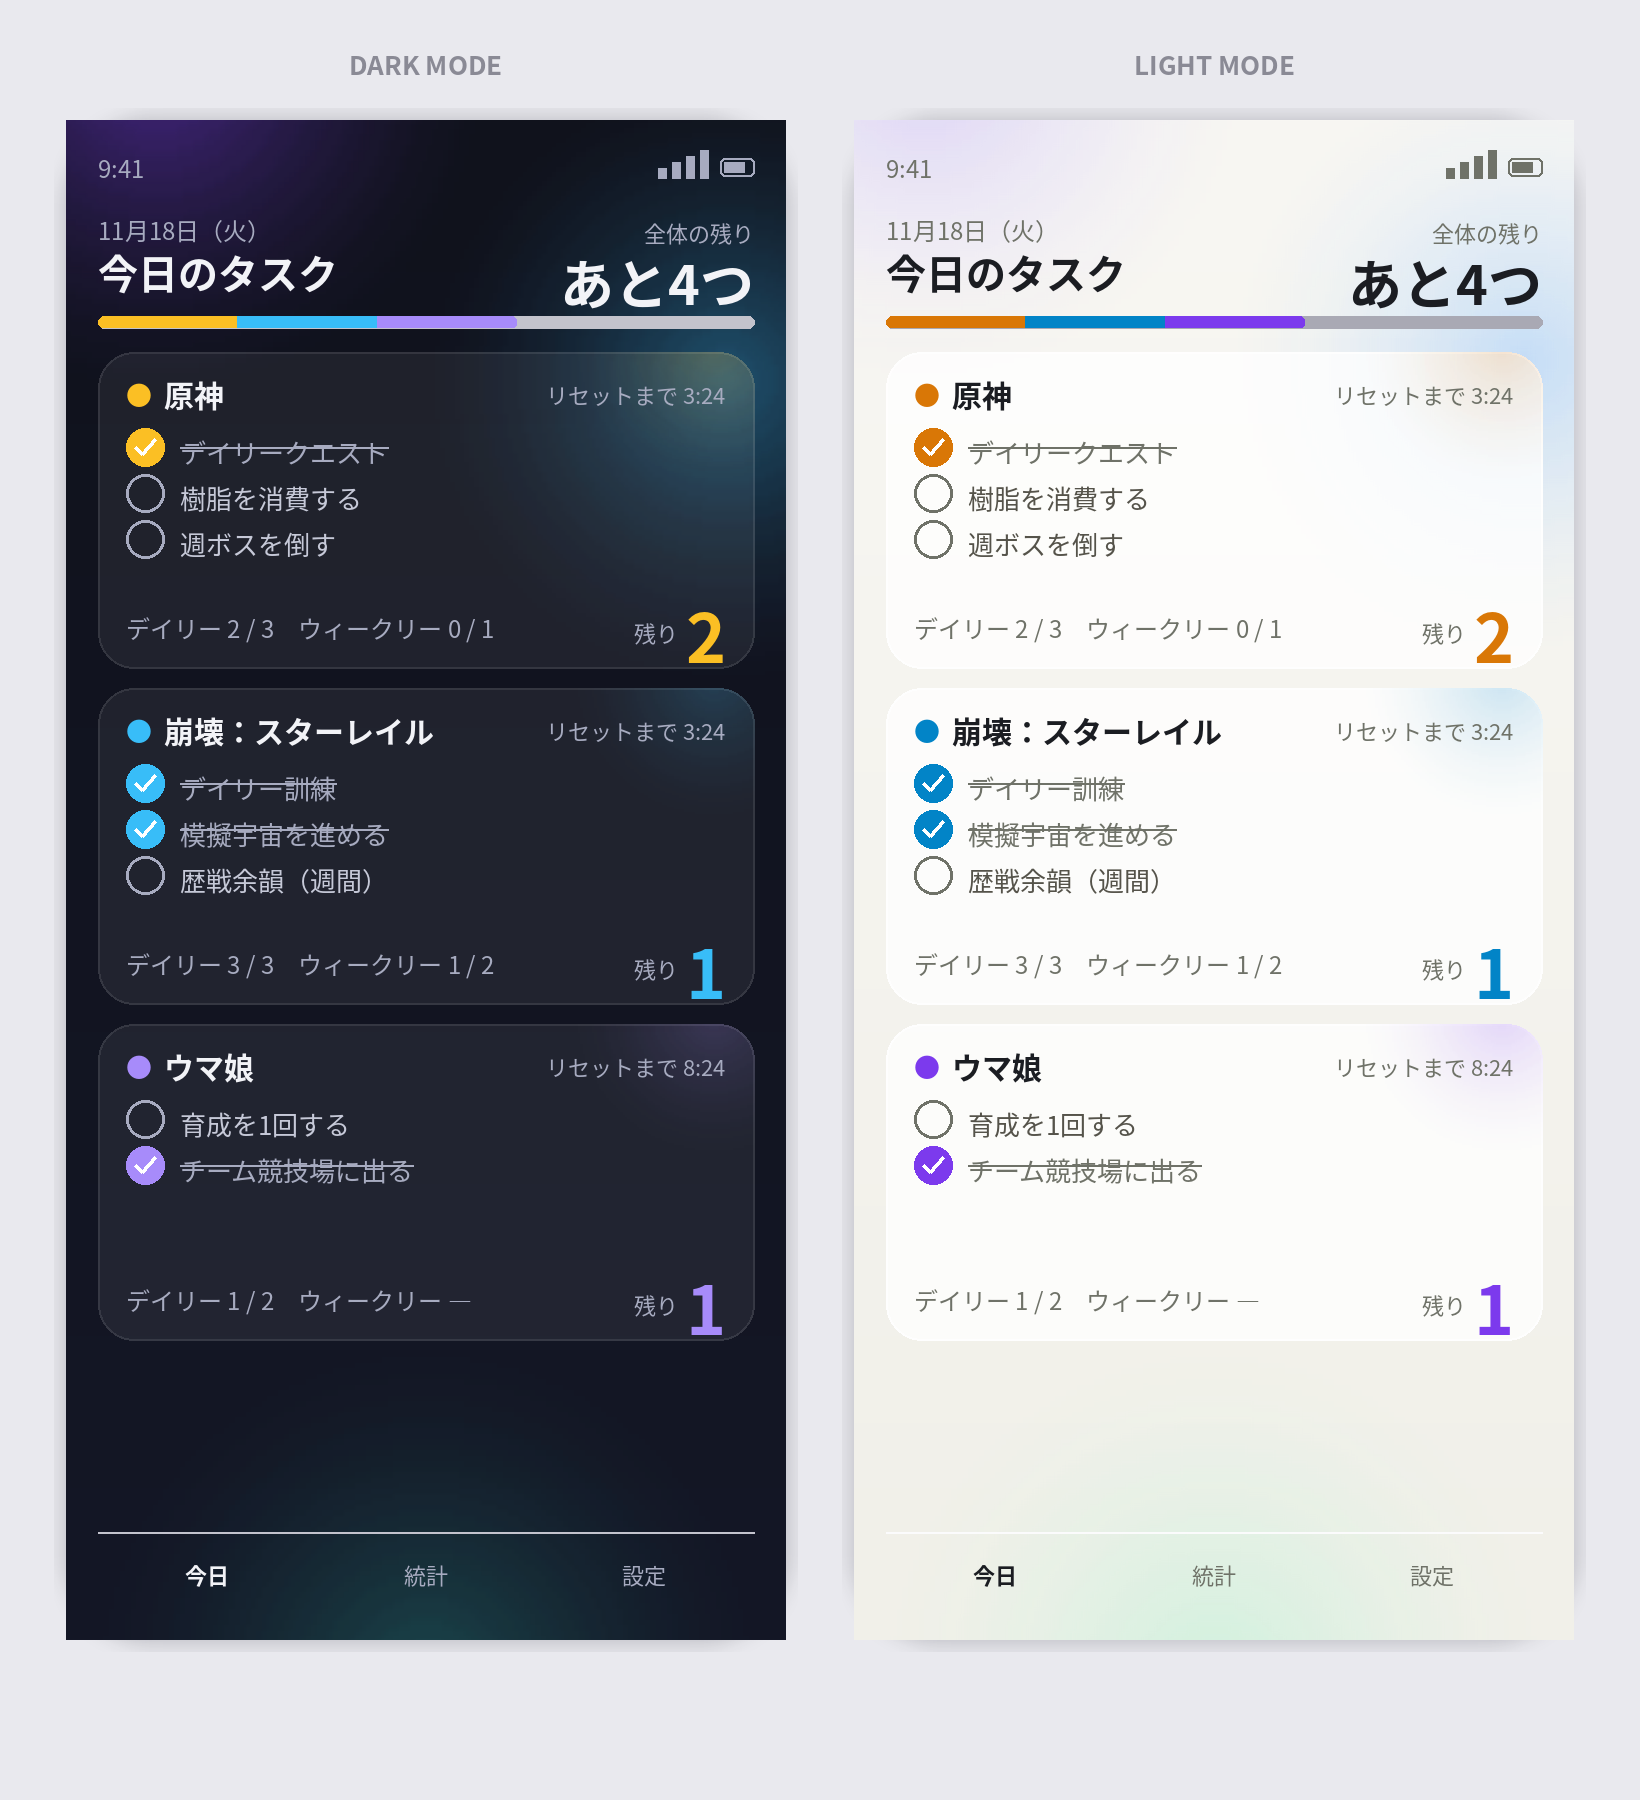
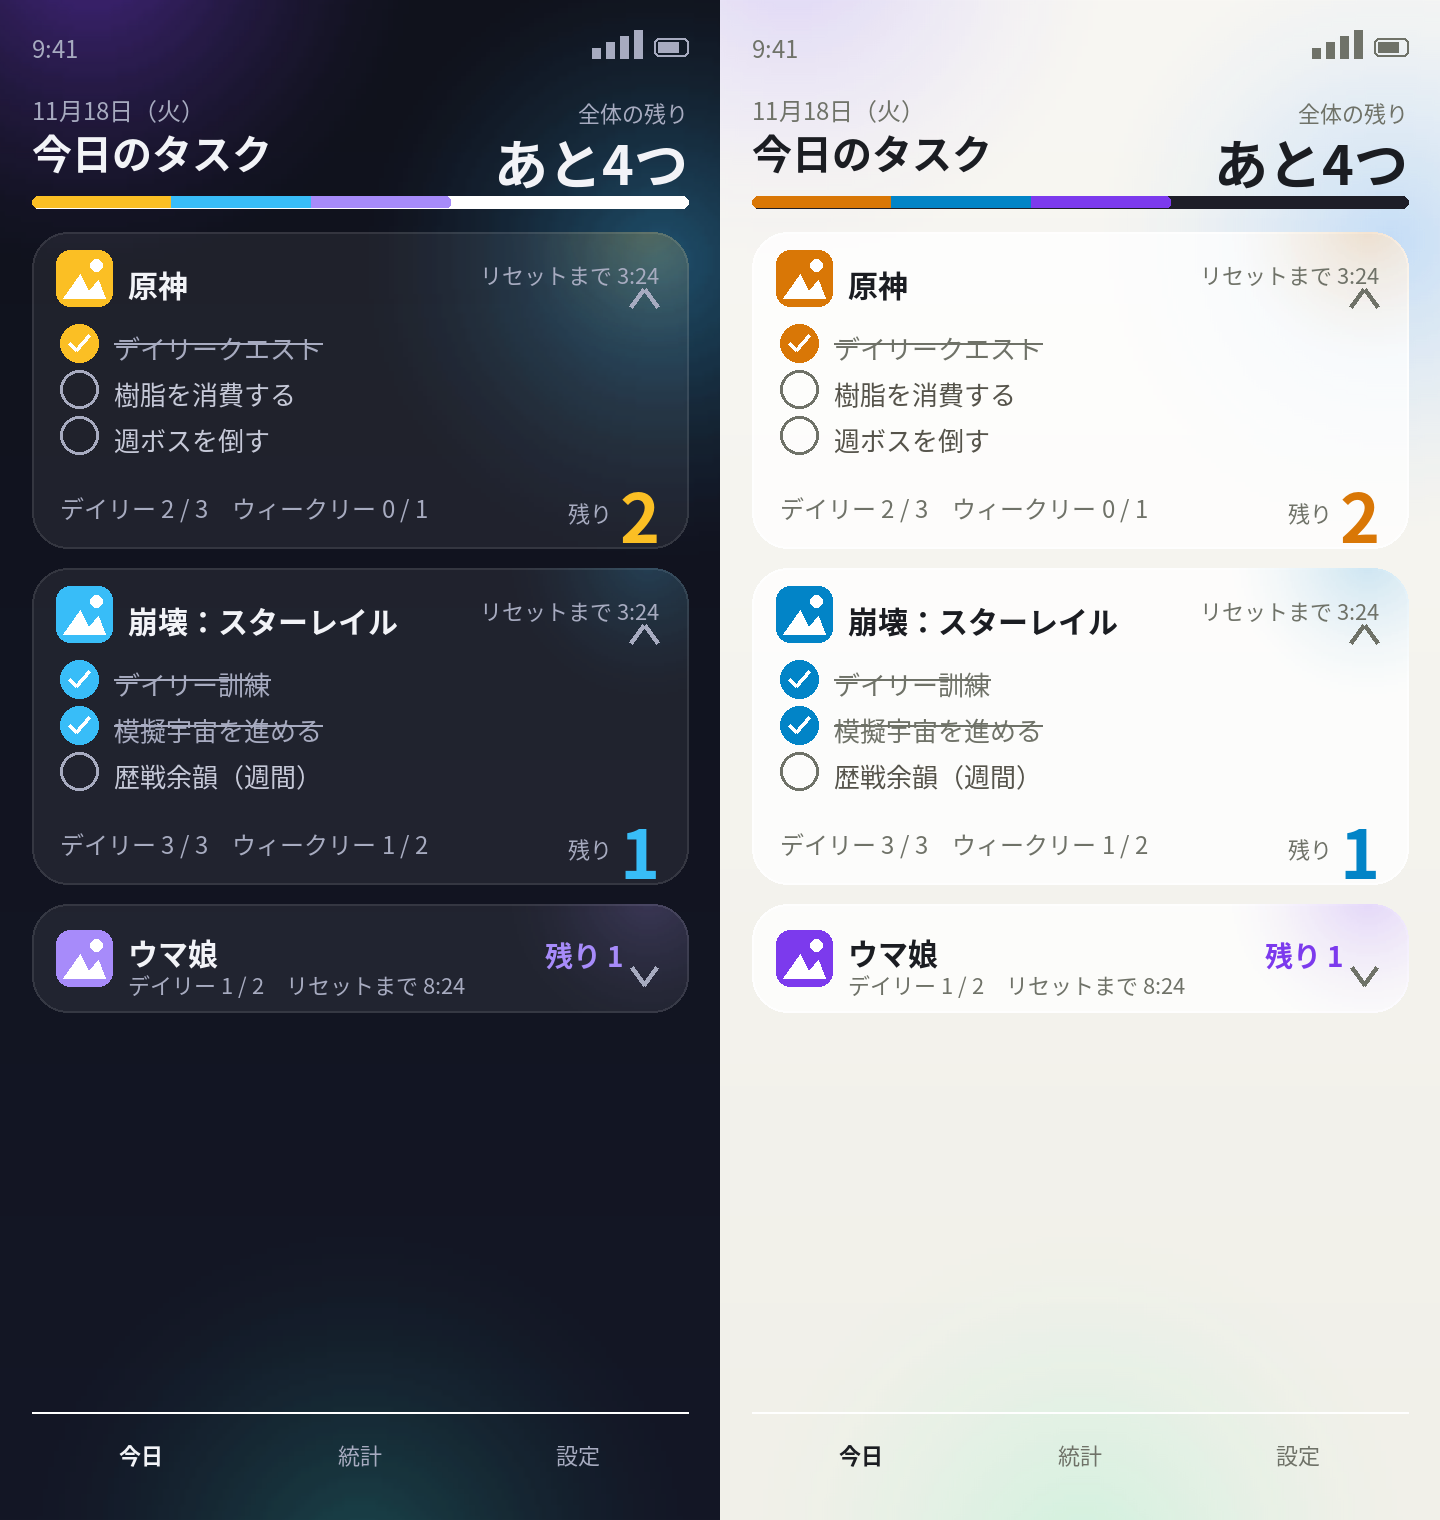
docs: 今日カード拡張Ver.1.8とPhase 3の確定仕様を反映

diff --git a/docs/03_仕様書.md b/docs/03_仕様書.md
@@ -1,4 +1,4 @@
-# デイリータスク管理アプリ 仕様書 Ver.1.7
+# デイリータスク管理アプリ 仕様書 Ver.1.8
 
 作成日：2026-11-16
 この文書は、本アプリの動作の正解を定める。要件の背景は「02_要件定義.md」、完成時の見た目は「04_完成予想図.md」を参照。
@@ -25,10 +25,14 @@
 | resetTime | 時刻（時・分） | デイリーリセット時刻。初期値 5:00 |
 | weeklyResetWeekday | Int（1=日曜〜7=土曜） | ウィークリーリセット曜日。初期値 2（月曜） |
 | weeklyResetTime | 時刻（時・分） | 初期値は resetTime と同じ。以後は連動しない（§3.4） |
-| isActive | Bool | 初期値 true（有効）。休止中は今日の対象・通知・集計から外す |
+| isActive | Bool | 初期値 true（有効）。休止中は今日の対象・通知・現在の集計から外す。過去の集計には影響しない（§8） |
 | sortOrder | Int | 表示順 |
 | note | String | 任意メモ |
 | テーマカラーのパレット番号 | Int | 10色のパレットのインデックス。新規登録時は既存ゲーム数に応じてパレット順の色を提案し、保存前に変更できる。ライト／ダークの配色は完成予想図 §2.1 に従う |
+| imageFileName | String? | ゲームの画像のファイル名。nil の場合は画像なし |
+
+- 画像の実体は端末内のアプリ領域にファイルとして保存し、SwiftData にはファイル名だけを持つ（§3.5 と同じ方針）。外部送信や同期はしない。
+- ゲームを削除する場合は、画像ファイルも併せて削除する。
 
 ### 3.2 TaskItem（タスク）
 | 項目 | 型 | 備考 |
@@ -59,7 +63,7 @@
 - 過去の記録は履歴・統計のために保持する（自動削除しない）。
 - 同一タスク・同一 periodKey の完了記録は1件のみとし、重複を作らない。実装時に保存前チェックとテストで担保する。
 - タスクの名前変更などでは、過去の完了記録を再計算・変更しない。ただし、ゲーム削除・タスク単独削除・タスクの種別変更では、§5.4に従って該当する完了記録を削除する。
-- タスクの変更が過去の達成集計に与える影響のルールは Phase 3 で決定する。完了記録を変更しないことと、達成集計のルールは区別する。
+- タスクの変更が過去の達成集計に与える影響は §8 に従う。再計算そのものは完了記録を変更しない。無効化では記録を保持し、削除・種別変更では §5.4 に従って記録を削除する（2026-11-26 決定）。
 
 ### 3.4 入力条件・初期値の扱い
 - ゲーム名・タスク名は必須とし、前後の空白を除いて判定し、空白のみは不可とする。同名は許可し、文字数上限は設けない。
@@ -78,7 +82,9 @@
 
 - 画像の実体は端末内のアプリ領域にファイルとして保存し、SwiftData にはメタデータとファイル名だけを持つ。外部送信や同期はしない。
 - 記録は「ゲーム」と「その日の期間」の両方に紐づく。実体は1か所に保存し、見せ方を2つ持つ（§5.6）。
-- 未決定事項（Phase 3 の前の仕様ステップで決定する）：保存時の画像の縮小（長辺の上限など）、同じゲーム・同じ日に複数の記録を作れるか。
+- 保存時の縮小は、ゲーム画像（§3.1）は長辺 1024px、画像の記録は長辺 2048px を上限とする。アスペクト比を維持し、切り抜き（トリミング）はしない（2026-11-26 決定）。
+- 同じゲーム・同じ日に複数の画像の記録を作れる（2026-11-26 決定）。
+- ゲームを削除したときは、画像の記録と画像ファイルも、タスク・完了記録と一緒に削除する（§5.4、2026-11-26 決定）。
 
 ## 4. ゲーム日・期間の判定（最重要）
 ### 4.1 ゲーム日の求め方
@@ -89,7 +95,7 @@
 
 - タスクの期間は、タスクごとに、そのタスクの実効リセット設定（§3.2）で求める。境界と夏時間の扱いは従来どおり（§4.4）とする。
 - ゲーム単位の集計などで使う「ゲーム日」は、ゲームの設定（既定値）から求める日次期間を指す。
-- ストリーク・達成の集計（§8）の基準は、この「ゲーム日」とする。個別設定は各タスクの完了期間にだけ影響し、集計の区切りには使わない。集計ルールの最終確定は、Phase 3 で §8 を決めるときに行う（2026-11-26 決定）。
+- ストリーク・達成の集計（§8）の基準は、この「ゲーム日」とする。個別設定は各タスクの完了期間にだけ影響し、集計の区切りには使わない。集計ルールは §8 に確定内容を記載する（2026-11-26 決定）。
 
 ### 4.2 ウィークリー期間の求め方
 - ウィークリーリセット（曜日 W・時刻 R）の境界（§4.4）のうち、現在時刻以前で最も新しい境界を期間の開始とする。期間はその境界から次の境界の直前までとし、periodKey はデイリーと同じく期間開始時点の暦日（地方時、yyyy-MM-dd）とする。デイリーのリセット時刻からは独立して決め、ゲーム日には変換しない（2026-11-16 本人決定）。
@@ -158,6 +164,10 @@ static func period(
 - 日付表示はカレンダー日付と併せて、ゲーム日がずれるゲームには違和感のない表現にする（例：見出しは今日の日付で統一し、各ゲームのリセット時刻を明示）
 - タスク行のタップで完了⇔未完了を切り替え、即座に保存・残数・ストリーク表示へ反映する
 - ゲームカードの「次のリセット」は、そのゲームの有効なタスクの中で最も近い境界（タスクごとの実効リセット設定から計算したもの）を表示する。
+- ゲームカードのヘッダーに、ゲームの画像がある場合はサムネイルを表示する（ゲーム名の横）。テーマカラーのドットは従来どおり併記し、画像が無い場合は従来どおりドットのみとする。
+- ゲームカードは、ヘッダーのタップで手動で折りたためる。畳んだ状態ではタスク行を表示せず、ゲーム名・サムネイル・残り件数・次のリセットのみを表示し、カードの位置は変わらない。
+- 開閉状態は端末内に保存し、アプリの再起動後も保持する。ただし、そのゲームの期間（日次・週次のいずれか）が切り替わったら、自動で開く。
+- 完了したゲームの自動の折りたたみは、従来どおりこれとは別に動く。
 
 ### 5.2 ゲーム詳細
 - そのゲームのタスク一覧（デイリー／ウィークリー）、現在のストリークと最長ストリーク
@@ -175,12 +185,14 @@ static func period(
 ### 5.4 ゲーム管理・タスク管理
 - ゲームの追加・編集・削除、休止切替、並び替え
 - タスクの追加・編集・削除、有効切替、並び替え
-- 削除時は確認を表示する。ゲーム削除では配下のタスクと完了記録も削除する
+- 削除時は確認を表示する。ゲーム削除では配下のタスク・完了記録・画像の記録と、ゲーム画像・記録画像のファイルも削除する（§3.1・§3.5・§5.6）
 - タスク単独削除時は、配下の完了記録も削除する。削除の確認表示に「完了記録も削除される」旨を含める
 - タスクの種別変更（daily⇔weekly）時は、既存の完了記録を削除する。変更の確認表示にその旨を含める
 - タスクの並び順はゲーム内で一括の単一順序とし、daily／weeklyを混在させる。無効タスクも順序に含め、新規タスクは末尾に追加する
 - タスクの追加・編集に、リセット設定の項目を持つ。既定は「ゲームの設定に従う」とし、個別設定を選んだ場合は、そのタスクの種別に応じた入力欄（daily は時刻、weekly は曜日と時刻）を表示する。
 - 個別設定の初期値は、その時点のゲームの設定とする。
+- ゲームの追加・編集に、画像の項目を持つ。写真（PhotosPicker）から1枚を選べる。画像なしの状態にも戻せる。
+- 保存時は長辺 1024px を上限に縮小する。アスペクト比は維持し、切り抜き（トリミング）はしない（2026-11-26 決定）。
 
 ### 5.5 設定
 - 通知オン／オフ、通知リードタイム（分）の設定
@@ -193,7 +205,7 @@ static func period(
   - 各記録には、日付・サムネイル（最大4枚）・メモ・その日のタスク達成状況を表示する。
   - 「画像を記録」ボタンで追加シートを開く。「戻る」でゲーム詳細へ戻る。
 - 追加シート（完成予想図 08）
-  - 紐づけ先のゲームは、表示中のゲームで固定する。対象の日は、その時点のゲーム日とする。
+  - 紐づけ先のゲームは、表示中のゲームで固定する。対象の日は当日（その時点のゲーム日）に固定し、変更は許可しない（2026-11-26 決定）。
   - 写真の選択は PhotosPicker を使い、最大4枚まで。選択済みの枚数を表示する。
   - メモは任意入力とする。
   - 「保存」で記録を作成してギャラリーへ戻る。「キャンセル」では何も残さずに戻る。
@@ -201,7 +213,9 @@ static func period(
   - 統計（§5.3）側の表示。その日の全ゲームの画像の記録を、ゲームごとに表示する。
   - ギャラリーと同じ記録を日付で絞った表示であり、データを2重に持たない。
   - 画像の記録が無いゲームは「画像の記録なし」と表示する。
-- 未決定事項（Phase 3 の前の仕様ステップで決定する）：対象の日の変更を許可するか、記録やサムネイルのタップでの拡大表示、記録ごとの削除の方法、ゲーム削除時の画像の記録と画像ファイルの扱い（案：§5.4 の方針に合わせ、タスク・完了記録と一緒に削除する）。
+- 記録やサムネイルのタップで拡大表示する（2026-11-26 決定）。
+- 記録の削除は、ギャラリーで記録を開いて行う。削除時には確認ダイアログを表示する（2026-11-26 決定）。
+- ゲームを削除したときは、画像の記録と画像ファイルも、タスク・完了記録と一緒に削除する（§3.5・§5.4、2026-11-26 決定）。
 
 ## 6. 通知仕様（UserNotifications・ローカル通知のみ）
 - 対象：有効（isActive）なゲームのうち、そのゲーム日に未完了の有効デイリータスクが残っているもの（ウィークリーは締切当日＝リセット前日のゲーム日に限って対象に含める）
@@ -218,11 +232,11 @@ static func period(
 - データ共有は App Group 経由の SwiftData 共有ストアを使う
 
 ## 8. ストリーク・達成の計算
-- 達成日：そのゲーム日に、有効なデイリータスクが1件以上あり、全て完了していること（タスクが0件の日は達成日に数えない）
+- 達成日の判定は「現在有効なデイリータスクが1件以上あり、全てにその期間の完了記録があること」で都度算出する（タスクが0件の日は達成日に数えない、2026-11-26 決定）。
 - 現在ストリーク：直近のゲーム日から遡って達成日が連続している日数。ただし「今日（現在のゲーム日）」が未達成でも、まだリセット前ならストリークは切れていないものとして、昨日までの連続で表示する
 - 最長ストリーク：過去の最大連続日数
 - 計算は完了記録とタスク有効状態から都度算出する（ストリーク値そのものは保存しない）
-- タスクの変更が過去の達成集計に与える影響のルールは Phase 3 で決定する（§3.3）。今回の完了記録の保持方針だけでは確定しない
+- 再計算そのものは完了記録を変更しない。タスクの無効化では完了記録は残るが、判定の対象からは外れるため、過去の達成判定が変わり得る。タスクの削除と種別の変更では、既存のルール（§5.4 ほか）どおり、配下の完了記録も削除される。ゲームの休止は過去の集計に影響しない（2026-11-26 決定）。
 
 ## 9. エラー・不正状態への基本方針
 - データが空（ゲーム未登録）の場合は、ホームに登録を促す案内を表示する
@@ -250,3 +264,4 @@ static func period(
 | 1.5 | §4.3 に GameDayCalculator の API 契約を追記。文書再現性検証（2026-11-25）の結果を受けたもので、振る舞いの変更はない（2026-11-26） |
 | 1.6 | 画像の記録機能の仕様を追加（§3.5・§5.6新設、§5.2・§5.3に導線と表示を追記）。ゲームとその日の期間への紐づけ、最大4枚、メモ任意、端末内ファイル保存を明記。詳細の一部は Phase 3 前の仕様ステップで決定する未決定事項として記載（2026-11-26） |
 | 1.7 | タスクごとのリセット時刻の個別設定を追加（方式A：ゲームの設定を既定値とし、タスクごとに上書きできる）。§3.2 に個別設定の項目、§4 にタスク単位の期間計算と API 契約、§5.1・§5.2・§5.4 に表示と入力を追記（2026-11-26） |
+| 1.8 | 今日カードの拡張を追加。ゲーム画像（写真から選択、§3.1・§5.1・§5.4）と、ゲームカードの手動の折りたたみ（§5.1）。§3.5・§5.6 の画像の縮小・複数記録・対象日の固定・拡大表示・削除と、§8 の達成判定・過去集計への影響を確定（2026-11-26） |

diff --git a/docs/04_完成予想図.md b/docs/04_完成予想図.md
@@ -1,4 +1,4 @@
-# デイリータスク管理アプリ 完成予想図 Ver.1.2
+# デイリータスク管理アプリ 完成予想図 Ver.1.3
 
 作成日：2026-11-16
 完成時に「こうなっている」姿を定める文書。動作の詳細は「03_仕様書.md」が正。画面イメージは参考ではなく、完成時の表示基準として扱う。
@@ -45,6 +45,10 @@
 ```
 - 残りがあるゲームを上に、全完了のゲームは畳んで下に
 - 各ゲームの見出し：名前、リセットまでの残り時間、残り件数
+- ゲーム画像がある場合は、ゲーム名の横にサムネイルを表示する。テーマカラーのドットは併記し、画像が無い場合はドットのみとする（仕様書 §3.1・§5.1）。
+- ヘッダーのタップでゲームカードを手動で折りたためる。畳んだ状態ではタスク行を隠し、ゲーム名・サムネイル・残り件数・次のリセットのみを表示する。カードの位置は変わらない。
+- 開閉状態は端末内に保存し、再起動後も保持する。そのゲームの期間（日次・週次のいずれか）が切り替わると自動で開く。全完了ゲームの自動の折りたたみは別に動く（仕様書 §5.1）。
+- [今日モック](01-today.png)は、サムネイル付きカードと手動で畳んだカードの例を示す。
 - デイリーとウィークリーは見出しやラベルで区別できるように並べる
 
 ### 2.2 ゲーム詳細
@@ -128,3 +132,4 @@
 | 1.0 | 初版（2026-11-16）。レイアウトはテキストモック。実装が進んだら実スクリーンショットに差し替える |
 | 1.1 | 今日画面のデザイン方針（オーロラ・グラスとゲーム別カラー、ライト／ダーク）を§2.1に反映し、差し替え済みの画面モック6点を冒頭から参照できるようにした（2026-11-25） |
 | 1.2 | ゲーム詳細のモック差し替えに合わせてギャラリーへの導線を追記し、画像の記録に関するモック3点、仕様書Ver.1.6と実装フェーズを記載（2026-11-26） |
+| 1.3 | 今日画面にゲーム画像のサムネイル表示とゲームカードの手動折りたたみを追記。開閉状態の保持と期間切替時の展開を明記し、今日モックを新版に差し替えた（2026-11-26） |
